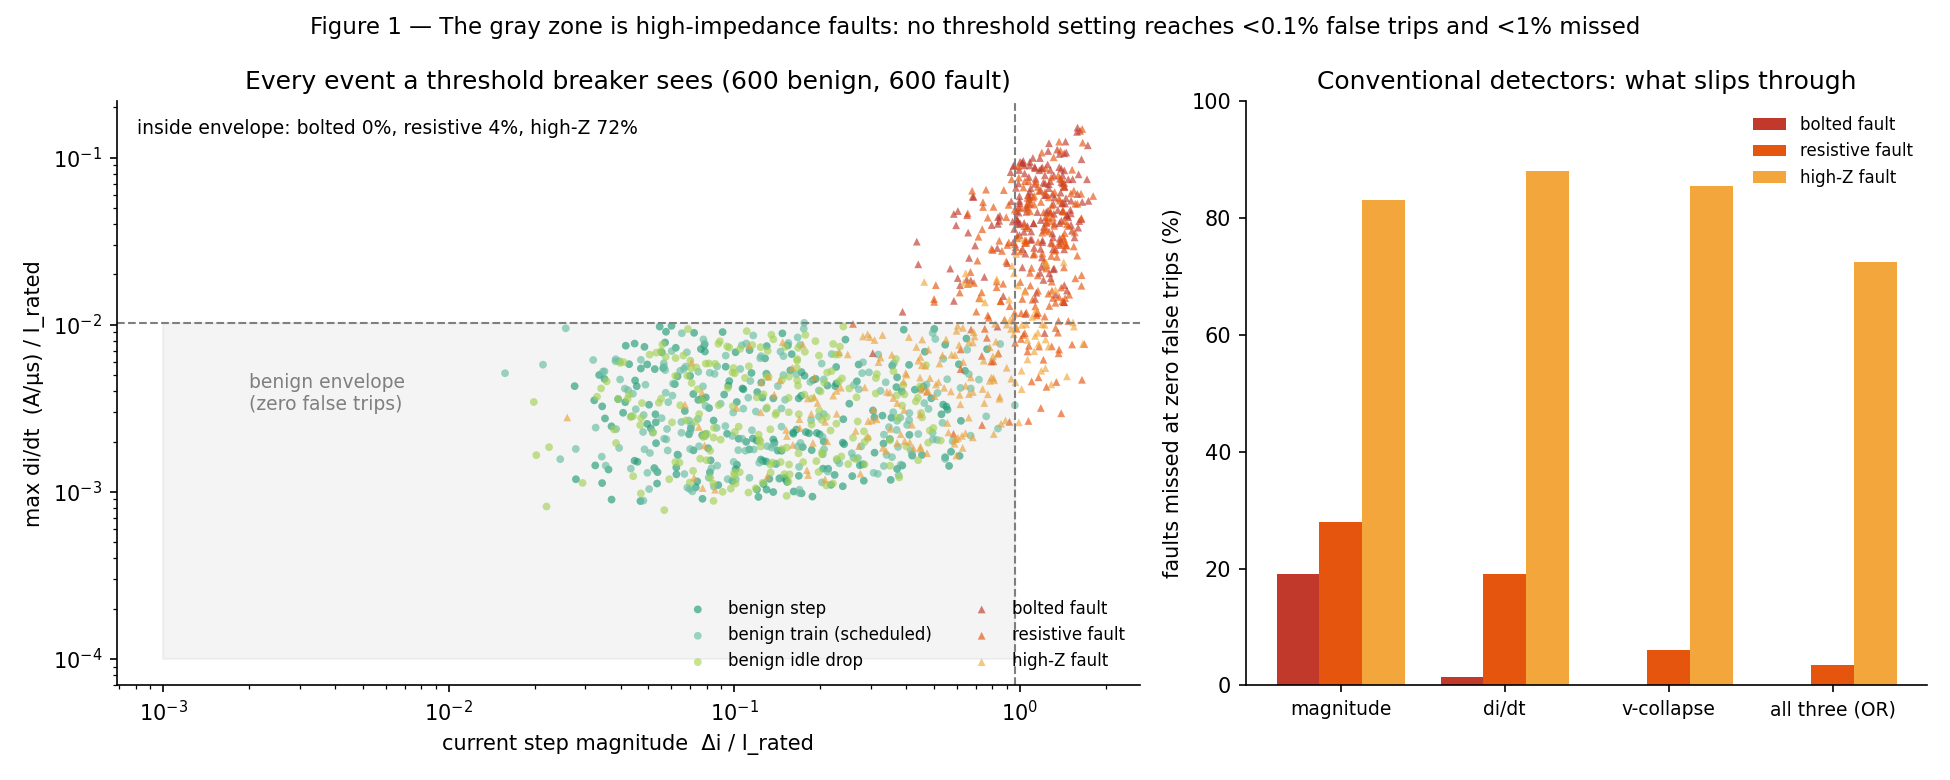
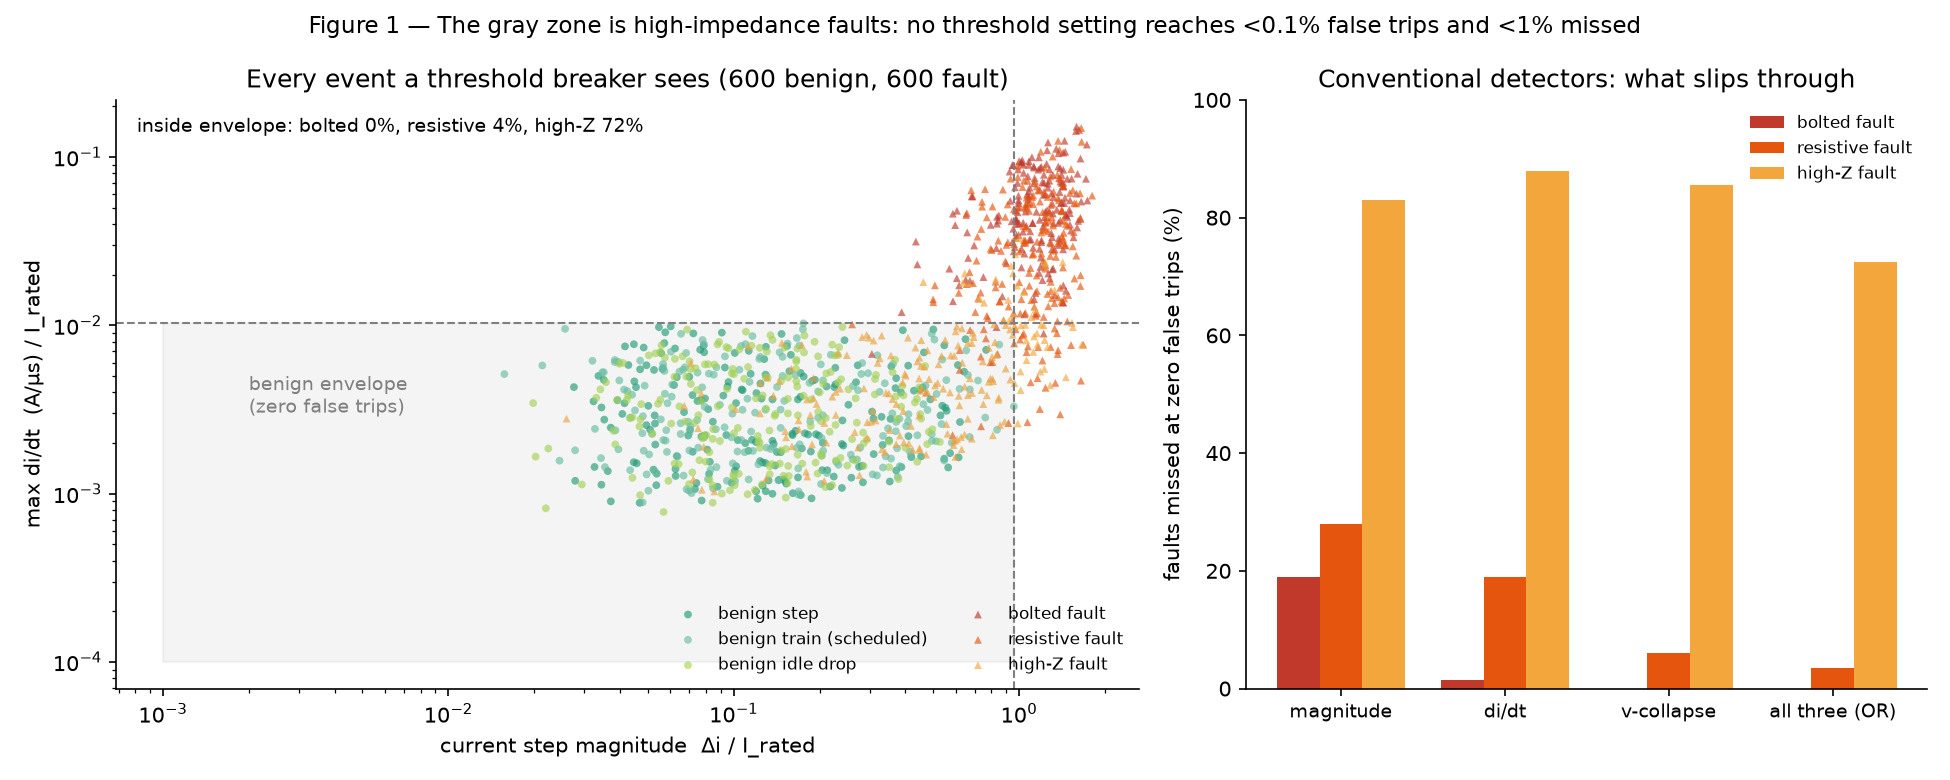
figures: regenerate on dataset v1
Waveform pairs, gray-zone Monte Carlo, discriminator, sensing architecture and latency ablation all redrawn from events_v1.h5 with the v0.3.1 feature table.

diff --git a/scripts/make_figures.py b/scripts/make_figures.py
@@ -11,7 +11,8 @@ from dcsim.events import BENIGN, FAULTS, build_schedule, _ramp, T_POST, FAULT_DU
 from dcsim.synth import synthesize
 from dcsim.features import CONV, PHYS, ALL
 from dcsim.studies import (threshold_study, classifier_study, operating_curve,
-                           latency_study, TRIP_CLASSES)
+                           latency_study, TRIP_CLASSES, GATED)   # v0.2.2
+MAIN = "+workload-aware"   # v0.2.2: single ungated model (gating tested and rejected, see studies.GATED)
 
 h5 = sys.argv[1] if len(sys.argv) > 1 else "data/events_v0.2.h5"
 csv = h5.replace(".h5", "_features.csv")
@@ -153,17 +154,19 @@ def fig_discriminator(df, ts, oc, cs):
     a.legend(frameon=False, fontsize=8)
     # (b) workload-aware: residual vs phase error on periodic backgrounds
     b = ax[1]
-    s = d[(d.background == "train") & d.resid_period.notna()]
+    s = d[(d.background == "train") & d.phase_err.notna()]   # v0.2.2
     for lab in BENIGN + TRIP_CLASSES:
         ss = s[s.label == lab]
         if len(ss) == 0:
             continue
-        b.scatter(ss.phase_err.clip(1e-3), ss.resid_period.clip(1e-3), s=14, alpha=0.65, color=COL[lab],
+        b.scatter(ss.phase_err.clip(1e-3), ss.di_max.clip(1e-3), s=14, alpha=0.65, color=COL[lab],   # v0.2.2
                   marker="o" if lab in BENIGN else "^", label=NAME[lab], edgecolor="none")
     b.set_xscale("log"); b.set_yscale("log")
-    b.set_xlabel("phase error vs. learned cadence  (fraction of period)")
-    b.set_ylabel("residual vs. predicted step  |Δi − Δi_pred| / I_rated")
-    b.set_title("(b) periodic backgrounds: scheduled steps land on time and on size", fontsize=10)
+    b.axvline(0.05, color=GREY, ls="--", lw=1)
+    b.text(0.055, 1.5e-3, "jitter\nceiling", color=GREY, fontsize=8)
+    b.set_xlabel("phase error vs. learned cadence  (fraction of period, folded to [0, 0.5])")
+    b.set_ylabel("current step magnitude  Δi / I_rated")
+    b.set_title("(b) periodic backgrounds: a scheduled step is on time whatever its size; a fault is not", fontsize=10)
     b.legend(frameon=False, fontsize=8, loc="lower right")
     # (c) operating curve
     c = ax[2]
@@ -172,7 +175,7 @@ def fig_discriminator(df, ts, oc, cs):
     c.scatter([0], [l1 * 100], color=RED, s=70, zorder=5, label="best conventional (Layer 1) at zero false trips")
     c.scatter([oc["false_trip"][np.argmin(np.abs(oc["missed"] - oc["miss_at_ft_target"]))] * 100],
               [oc["miss_at_ft_target"] * 100], color=PURPLE, s=70, zorder=5)
-    cv = cs["+workload-aware"]["cv"]
+    cv = cs[MAIN]["cv"]   # v0.2.2
     c.scatter([cv["false_trip"] * 100], [cv["missed"] * 100], color=PURPLE, marker="s", s=60, zorder=5,
               label="classifier default operating point")
     c.set_xlim(-0.3, 12); c.set_ylim(-1, 35)
@@ -192,7 +195,7 @@ def fig_discriminator(df, ts, oc, cs):
 # ------------------------------------------------------------------ fig 3: sensing architecture evidence
 def fig_sensing(df, cs, arcs):
     d = df[df.W_ms == 1.0].reset_index(drop=True)
-    pred = cs["+workload-aware"]["cv_pred"]
+    pred = cs[MAIN]["cv_pred"]   # v0.2.2
     hz = d[d.label == "high_z"].copy()
     hz["if_pu"] = (hz.V_ref / hz.R_f) / hz.I_rated          # v0.2.1 (B5)
     ph = pred[hz.index]
@@ -202,7 +205,15 @@ def fig_sensing(df, cs, arcs):
     for lo, hi in zip(bins[:-1], bins[1:]):
         m = ((hz.if_pu >= lo) & (hz.if_pu < hi)).values
         miss.append((ph[m] == "HOLD").mean() * 100 if m.any() else np.nan); ns.append(int(m.sum()))
-    fig, ax = plt.subplots(1, 2, figsize=(12, 4.6))
+    # v0.2.2: second driver -- bus capacitance. The capacitor feeds the first
+    # milliseconds of a small fault locally, so the feeder sees a slow ramp.
+    cq = pd.qcut(hz.C_bus, 3, labels=["low", "mid", "high"])
+    cmiss, cns, cmed = [], [], []
+    for q in ["low", "mid", "high"]:
+        m = (cq == q).values
+        cmiss.append((ph[m] == "HOLD").mean() * 100 if m.any() else np.nan)
+        cns.append(int(m.sum())); cmed.append(hz.C_bus[m].median() * 1e3)
+    fig, ax = plt.subplots(1, 3, figsize=(16, 4.6))
     a = ax[0]
     a.bar(labels_, miss, color=COL["high_z"])
     for i, (v, n) in enumerate(zip(miss, ns)):
@@ -212,7 +223,13 @@ def fig_sensing(df, cs, arcs):
     a.set_title("(a) Detectability scales with fault current / segment rating", fontsize=10)
     a.text(0.98, 0.9, "same 10 Ω fault: 6% of a 1 MW segment,\n32% of a 200 kW segment",
            transform=a.transAxes, ha="right", fontsize=9, color=GREY)
-    b = ax[1]
+    c = ax[1]
+    c.bar([f"{lbl}\n(~{m:.0f} mF)" for lbl, m in zip(["low", "mid", "high"], cmed)], cmiss, color=COL["high_z"])
+    for i, (v, n) in enumerate(zip(cmiss, cns)):
+        c.text(i, v + 1.5, f"n={n}", ha="center", fontsize=8, color=GREY)
+    c.set_xlabel("bus capacitance tercile"); c.set_ylabel("high-Z faults missed (%)"); c.set_ylim(0, 60)
+    c.set_title("(b) ... and with bus capacitance: C_bus feeds the fault front locally", fontsize=10)
+    b = ax[2]
     names = list(arcs.keys())
     vals = [arcs[k]["detected"] * 100 for k in names]
     b.bar(["busbar joint arc\n(upstream of C_bus)", "load-path arc\n(downstream of C_bus)"], vals,
@@ -220,8 +237,8 @@ def fig_sensing(df, cs, arcs):
     for i, v in enumerate(vals):
         b.text(i, v + 1.5, f"{v:.0f}%", ha="center", fontsize=9)
     b.set_ylabel("series arcs flagged ALERT (%)"); b.set_ylim(0, 110)
-    b.set_title("(b) The bus capacitor hides load-side arcs from the feeder sensor", fontsize=10)
-    fig.suptitle("Figure 3 — What feeder-level sensing can and cannot see: the case for a hybrid feeder + per-rack architecture", fontsize=11)
+    b.set_title("(c) The bus capacitor hides load-side arcs from the feeder sensor", fontsize=10)
+    fig.suptitle("Figure 3 — Where feeder-level sensing ends: fault current in p.u. and bus capacitance both push toward per-rack nodes", fontsize=11)
     fig.tight_layout(); fig.savefig(f"{FIG}/fig3_sensing_architecture.png", dpi=150); plt.close(fig)
 
 
